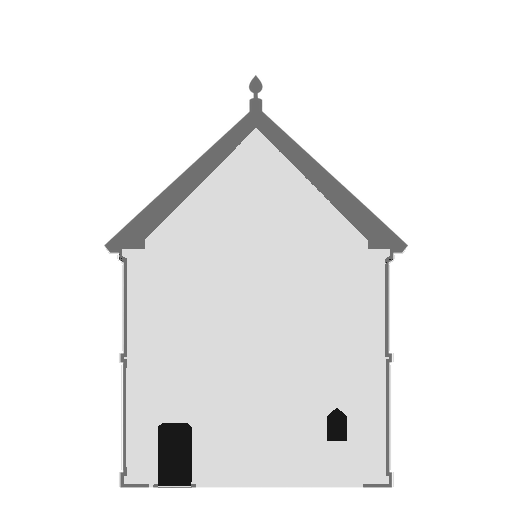
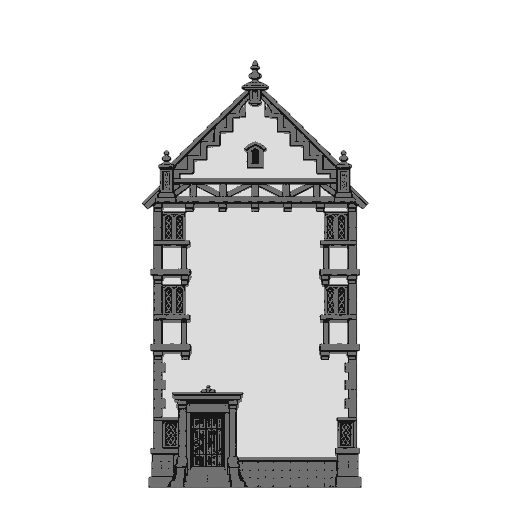
Refine settlement building facades

Changed region(s): [[0.1875, 0.125, 0.8125, 0.9688]]

diff --git a/wiki/strategic/Settlement.md b/wiki/strategic/Settlement.md
@@ -25,6 +25,13 @@ variants, so the view is stable between visits without creating persistent
 geographic data. The imported selector is intended to replace that temporary
 hash directly.
 
+Across each architectural tier, churches and watchtowers rise above ordinary
+service buildings while retaining the shared ground line. Every facade keeps a
+common central light wall field for the separately layered white service mark;
+the mark stays at one height across the tier. Tall facades generally place their
+entrance beneath that field, with centered doors favored for churches and
+watchtowers and used selectively for other city buildings.
+
 Horizon art preserves its aspect ratio and stays centered on the bottom edge.
 Ordinary wider screens crop its sides instead of stretching fields, buildings,
 bridges, ships, or towers; ultrawide-specific composition is deferred.
